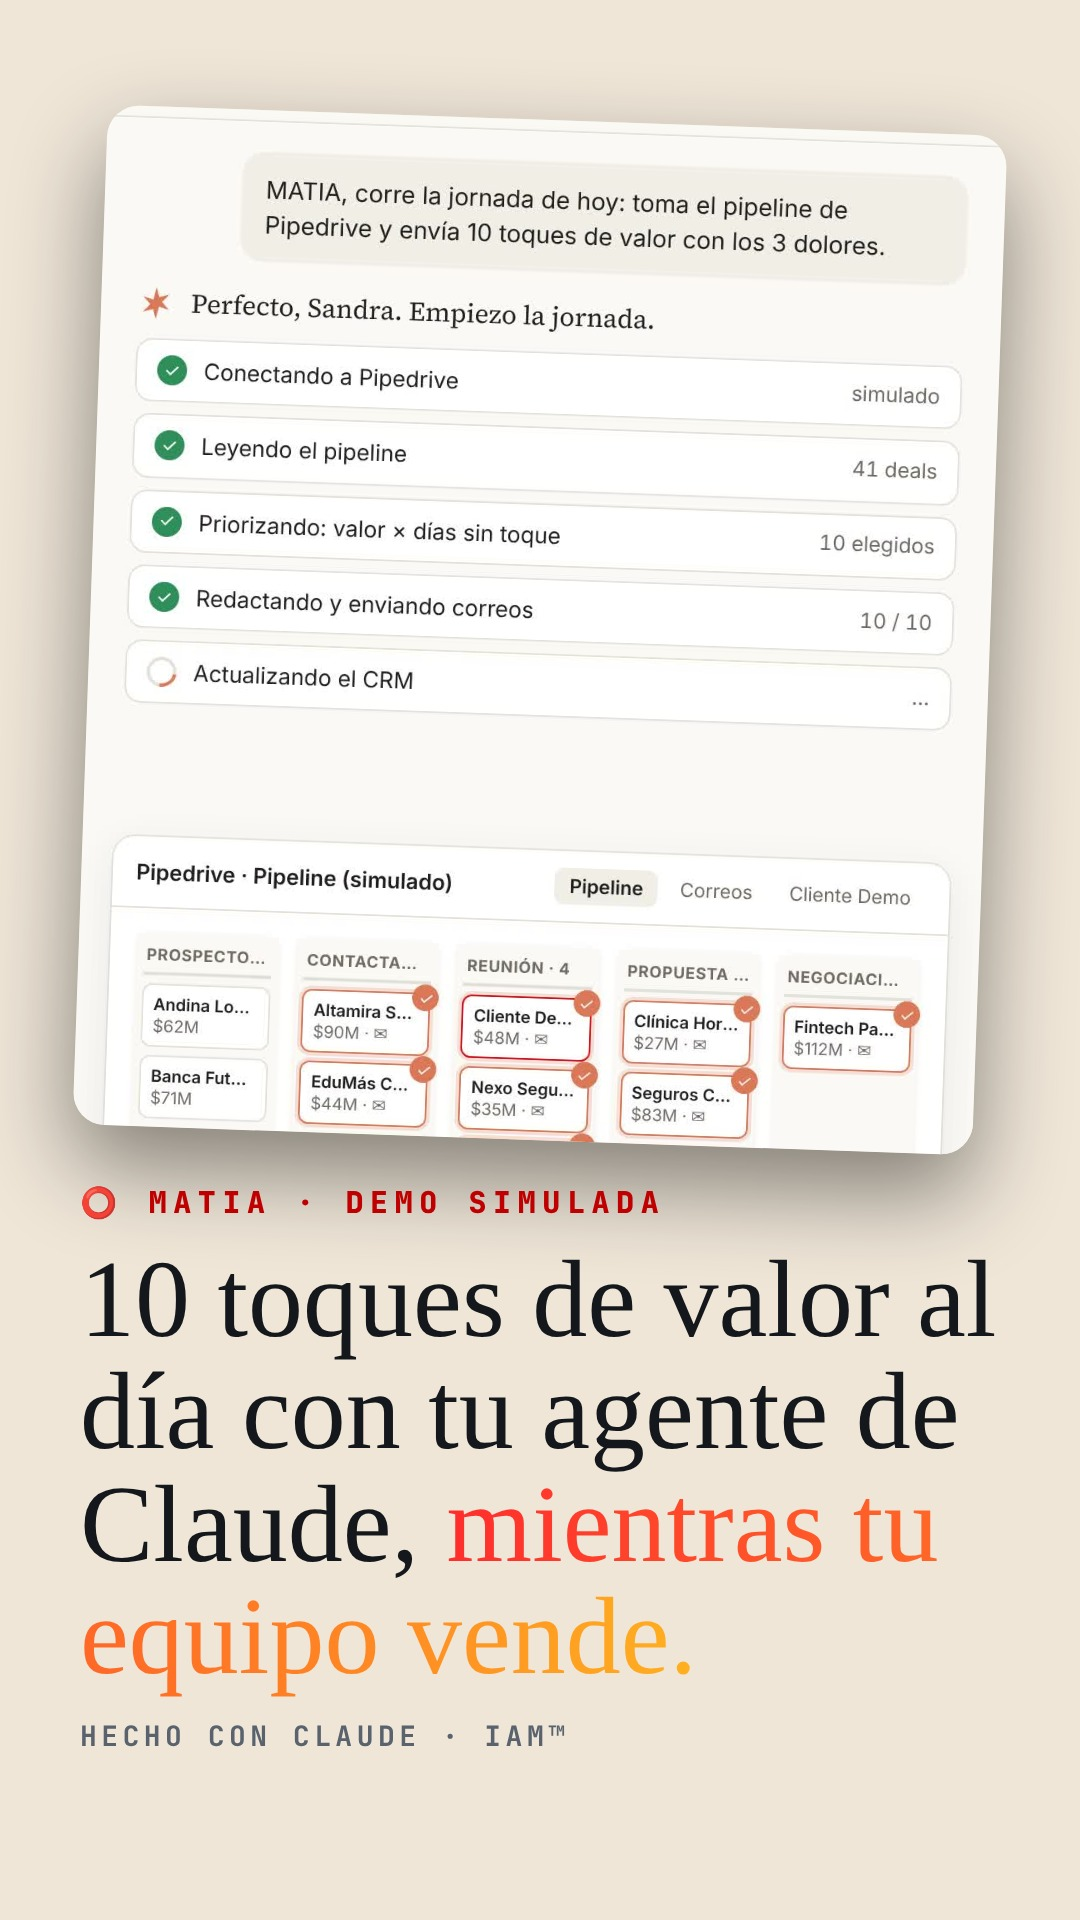
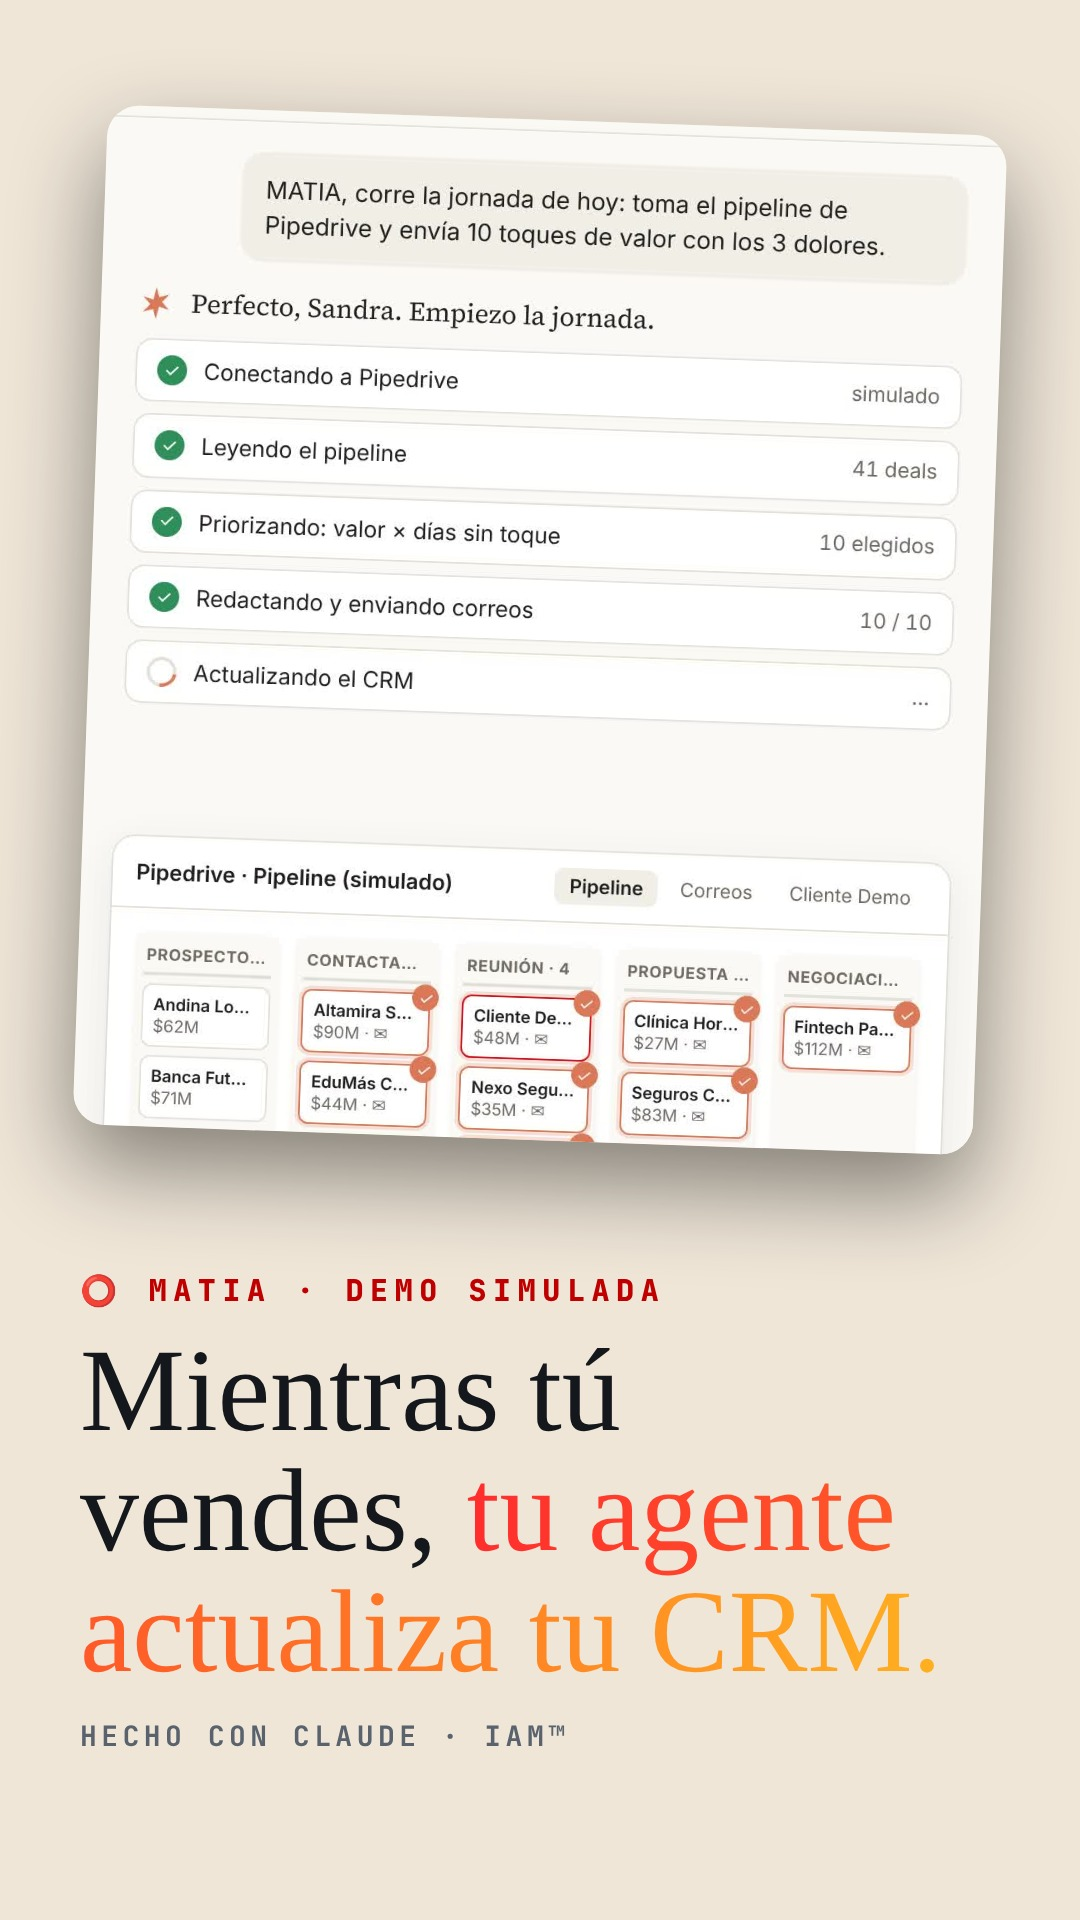
Reel MATIA: portada final (beige con 'Mientras tú vendes') y programado lun 16
Claude-Session: https://claude.ai/code/session_01NfWH1YnxdbRLc9ZrUJbHYq

Changed region(s): [[0.0611, 0.5938, 0.9167, 0.9062]]

diff --git a/estrategia/instagram/reel-matia-gancho/cover.html b/estrategia/instagram/reel-matia-gancho/cover.html
@@ -13,5 +13,5 @@ em{font-style:normal;background:linear-gradient(90deg,#ff2d2d,#ffb020);-webkit-b
 <div class="c" id="c1"><div style="position:absolute;top:150px;left:80px;right:80px"><p class="eye">⭕ MATIA · DEMO SIMULADA</p><h1 style="font-size:112px">Mientras tú vendes, <em>tu agente actualiza tu CRM.</em></h1><p class="s" style="color:#9aa6b2">HECHO CON CLAUDE · IAM™</p></div>
 <div class="shot" style="top:900px;height:760px;transform:rotate(-2deg)"><img src="f2.jpg" style="margin-top:-790px"></div></div>
 <div class="c" id="c2"><div class="shot" style="top:120px;transform:rotate(2deg)"><img src="f2.jpg" style="margin-top:-80px;height:1100px;object-fit:cover;object-position:top"></div>
-<div style="position:absolute;bottom:170px;left:80px;right:80px"><p class="eye" style="color:#c00000">⭕ MATIA · DEMO SIMULADA</p><h1 style="font-size:110px">10 toques de valor al día con tu agente de Claude, <em>mientras tu equipo vende.</em></h1><p class="s" style="color:#5a636d">HECHO CON CLAUDE · IAM™</p></div></div>
+<div style="position:absolute;bottom:170px;left:80px;right:80px"><p class="eye" style="color:#c00000">⭕ MATIA · DEMO SIMULADA</p><h1 style="font-size:118px">Mientras tú vendes, <em>tu agente actualiza tu CRM.</em></h1><p class="s" style="color:#5a636d">HECHO CON CLAUDE · IAM™</p></div></div>
 </body></html>
